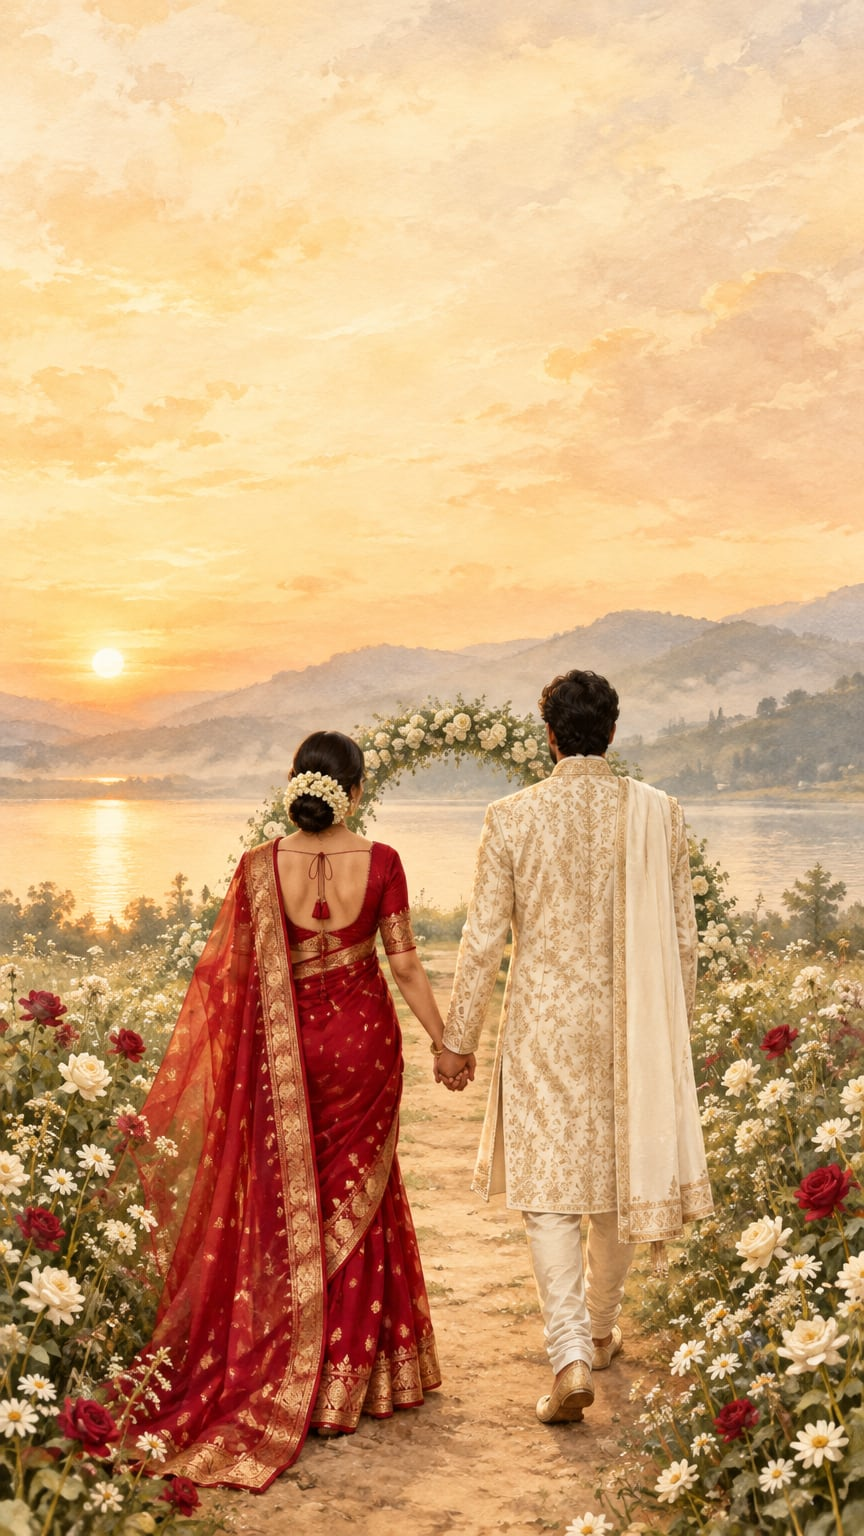
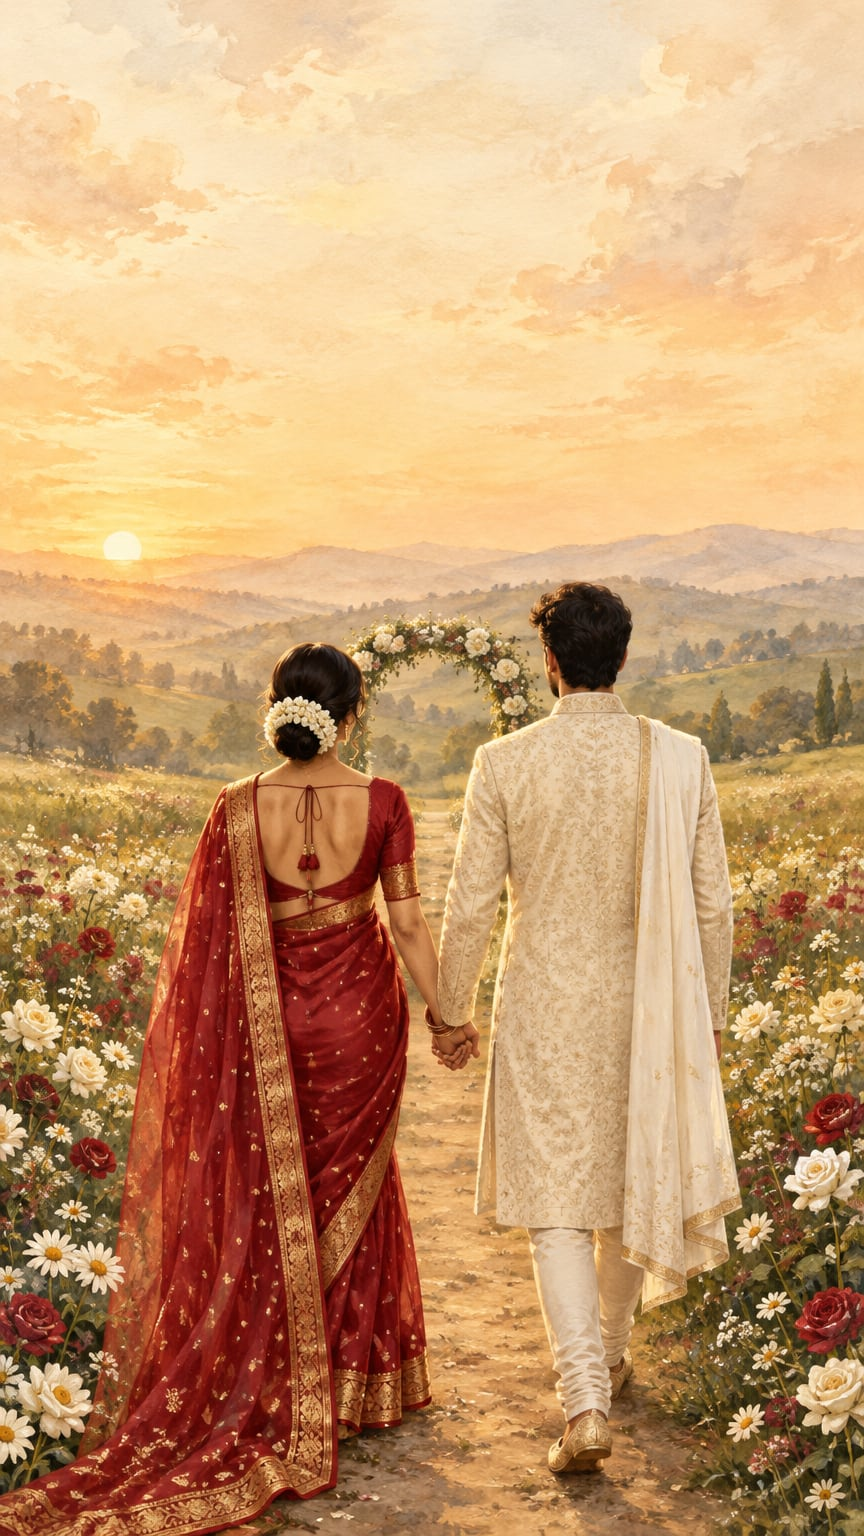
Khat (Ivory Red): meadow and hills without the lake; names sit a little higher in the sky

diff --git a/src/invites/illustrated-themes.ts b/src/invites/illustrated-themes.ts
@@ -32,7 +32,7 @@ export const khatred = makeIllustrated({
   images: { opening: `${base}/khat-envelope.jpg`, hero: `${base}/khat-red-hero.jpg`, card: `${base}/khat-red-card.jpg` },
   opening: "envelope",
   sealAt: { x: 50.5, y: 49.5 },
-  heroTextTop: 12,
+  heroTextTop: 8,
   frame: { top: 15, bottom: 15, side: 3 },
   colors: { ink: "#6e1320", accent: "#a3192b", soft: "#7a4741", paper: "#fbf1ec", onAccent: "#fff" },
   fonts: { script: "var(--font-pinyon), cursive", serif: "var(--font-cormorant), serif", label: "var(--font-manrope), sans-serif" },
